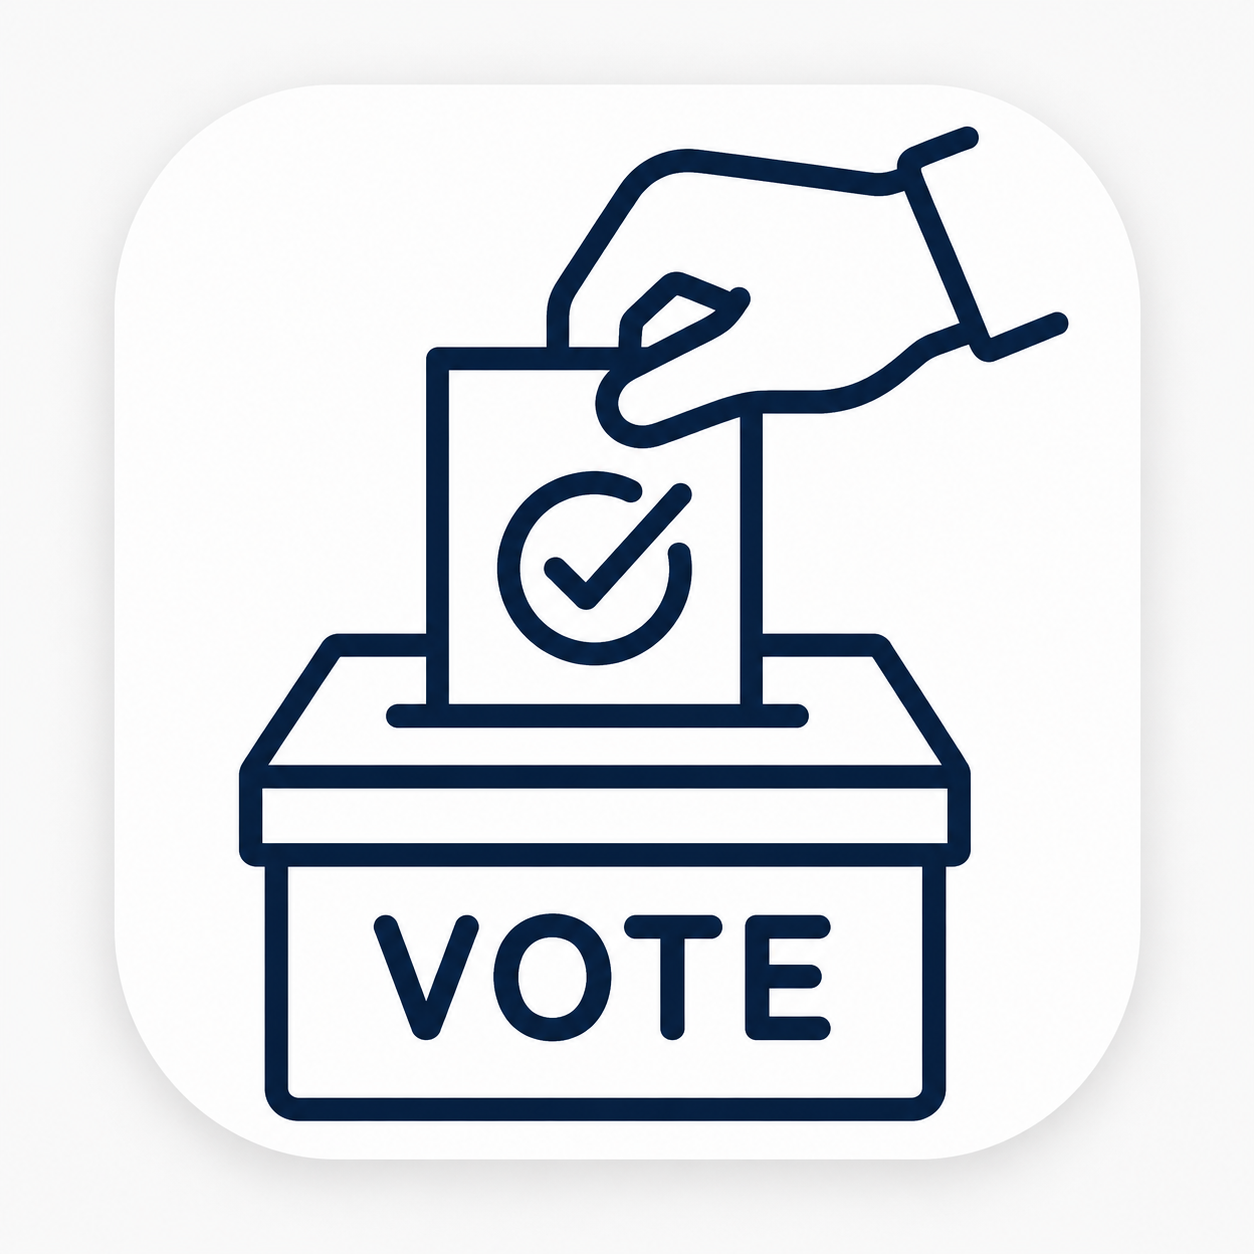
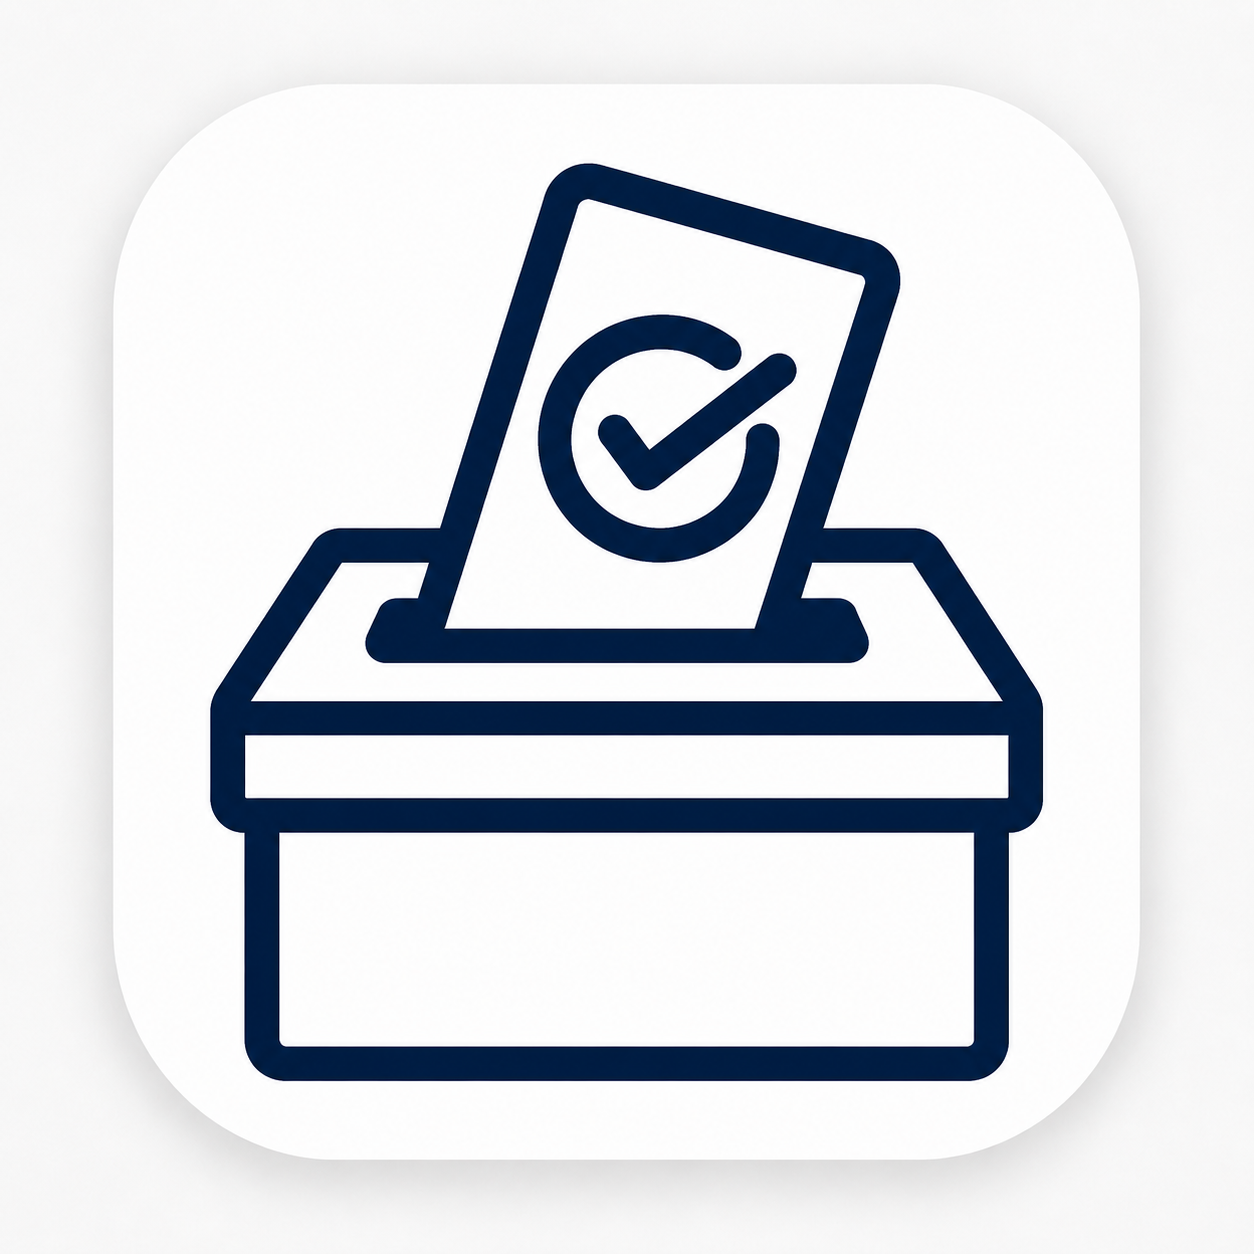
5.19

Changed region(s): [[0.1555, 0.0933, 0.8708, 0.9019]]

diff --git a/components/equipment/equipment-pages.tsx b/components/equipment/equipment-pages.tsx
@@ -13,6 +13,7 @@ import { getEngScheduleBadges, loadEngScheduleHighlights, type EngScheduleBadge,
 import {
   borrowEngSets,
   borrowEquipmentItems,
+  borrowLiveEquipmentStatusItem,
   canReturnLoanItem,
   fetchEquipmentItems,
   fetchLiveEquipmentItemsForManagement,
@@ -3049,6 +3050,7 @@ export function LiveEquipmentStatusPage() {
   const [editMode, setEditMode] = useState(false);
   const [loading, setLoading] = useState(true);
   const [saving, setSaving] = useState(false);
+  const [statusToggleItemId, setStatusToggleItemId] = useState<string | null>(null);
   const [message, setMessage] = useState<Message | null>(null);
 
   const load = useCallback(async () => {
@@ -3094,7 +3096,7 @@ export function LiveEquipmentStatusPage() {
   const regionalTvuItems = useMemo(() => items.filter(isRegionalTransmissionTvuItem), [items]);
   const tvuItems = useMemo(() => items.filter((item) => isTvuItem(item) && !isRegionalTransmissionTvuItem(item)), [items]);
   const statusBoardItems = useMemo(() => [...tvuItems, ...regionalTvuItems], [regionalTvuItems, tvuItems]);
-  const canManageLiveStatus = Boolean(session?.approved && hasDeskAccess(session.role));
+  const canManageLiveStatus = Boolean(session?.approved && hasDeskAccess(session.actualRole));
   const hasDirtyDrafts = useMemo(() => (
     editMode && statusBoardItems.some((item) => !liveStatusDraftsEqual(drafts[item.id], editBaselineDrafts[item.id]))
   ), [drafts, editBaselineDrafts, editMode, statusBoardItems]);
@@ -3160,6 +3162,48 @@ export function LiveEquipmentStatusPage() {
     setEditMode(false);
     setMessage({ tone: "note", text: "수정을 취소했습니다." });
   };
+  const toggleLiveBorrowStatus = async (
+    item: EquipmentItem,
+    loanItem: EquipmentLoanItem | undefined,
+    electionOverlay: ElectionTvuOverlay | null,
+    liveDetails: LiveLoanDetails,
+  ) => {
+    if (!canManageLiveStatus) {
+      setMessage({ tone: "warn", text: "라이브장비 현황판 저장 권한이 없습니다." });
+      return;
+    }
+    if (editMode) {
+      setMessage({ tone: "note", text: "수정 모드에서는 상태를 변경할 수 없습니다." });
+      return;
+    }
+    if (electionOverlay) {
+      setMessage({ tone: "note", text: "선거 자동연동 상태는 현황판에서 직접 변경할 수 없습니다." });
+      return;
+    }
+    if (!loanItem && item.isUnderRepair) {
+      setMessage({ tone: "note", text: "수리중인 장비는 대여중으로 변경할 수 없습니다." });
+      return;
+    }
+    if (statusToggleItemId || saving || loading) return;
+
+    setStatusToggleItemId(item.id);
+    try {
+      const nextMessage = loanItem
+        ? `${getEquipmentDisplayName(item)} 상태를 대여가능으로 변경했습니다.`
+        : `${getEquipmentDisplayName(item)} 상태를 대여중으로 변경했습니다.`;
+      if (loanItem) {
+        await returnEquipmentLoanItems([loanItem.id]);
+      } else {
+        await borrowLiveEquipmentStatusItem(item.id, liveDetails);
+      }
+      await load();
+      setMessage({ tone: "ok", text: nextMessage });
+    } catch (error) {
+      setMessage({ tone: "warn", text: error instanceof Error ? error.message : "라이브장비 상태 변경에 실패했습니다." });
+    } finally {
+      setStatusToggleItemId(null);
+    }
+  };
 
   const renderLiveStatusTable = (tableItems: EquipmentItem[], title: string, isRegionalTable = false) => (
     <section className={styles.liveStatusTableSection}>
@@ -3190,6 +3234,16 @@ export function LiveEquipmentStatusPage() {
                 const draft = editMode ? drafts[item.id] ?? baseDisplayDraft : displayDraft;
                 const dirty = editMode && !liveStatusDraftsEqual(draft, editBaselineDrafts[item.id]);
                 const noteValue = draft.note || "-";
+                const statusToggleDisabled = (
+                  !canManageLiveStatus ||
+                  editMode ||
+                  saving ||
+                  loading ||
+                  Boolean(statusToggleItemId) ||
+                  Boolean(electionOverlay) ||
+                  (!loanItem && item.isUnderRepair)
+                );
+                const statusToggleLabel = loanItem ? "대여가능으로 변경" : "대여중으로 변경";
                 return (
                   <tr key={item.id} className={dirty ? styles.liveStatusDirtyRow : ""}>
                     <td>
@@ -3308,12 +3362,21 @@ export function LiveEquipmentStatusPage() {
                       )}
                     </td>
                     <td>
-                      <StatusPill
-                        borrowed={Boolean(loanItem || electionOverlay)}
-                        repairing={item.isUnderRepair}
-                        availableLabel={isRegionalTable ? "사용 가능" : "대여가능"}
-                        borrowedLabel={electionOverlay ? "선거중계" : "대여중"}
-                      />
+                      <button
+                        type="button"
+                        className={styles.liveStatusToggle}
+                        disabled={statusToggleDisabled}
+                        aria-label={`${getEquipmentDisplayName(item)} ${statusToggleLabel}`}
+                        title={`${getEquipmentDisplayName(item)} ${statusToggleLabel}`}
+                        onDoubleClick={() => void toggleLiveBorrowStatus(item, loanItem, electionOverlay, baseDisplayDraft)}
+                      >
+                        <StatusPill
+                          borrowed={Boolean(loanItem || electionOverlay)}
+                          repairing={item.isUnderRepair}
+                          availableLabel={isRegionalTable ? "사용 가능" : "대여가능"}
+                          borrowedLabel={electionOverlay ? "선거중계" : "대여중"}
+                        />
+                      </button>
                     </td>
                   </tr>
                 );

diff --git a/lib/equipment/storage.ts b/lib/equipment/storage.ts
@@ -393,7 +393,7 @@ function assertCanManageRepair() {
 
 function assertCanManageLiveStatus() {
   const session = getSession();
-  if (!session?.approved || !hasDeskAccess(session.role)) {
+  if (!session?.approved || !hasDeskAccess(session.actualRole)) {
     throw new Error("라이브장비 현황판 저장 권한이 없습니다.");
   }
   return session;
@@ -451,6 +451,35 @@ export async function borrowEquipmentItems(
 
   if (error) {
     throw new Error(getEquipmentStorageErrorMessage(error, "equipment loan"));
+  }
+}
+
+export async function borrowLiveEquipmentStatusItem(itemId: string, liveDetails: LiveLoanDetails = {
+  trs: "",
+  cameraReporter: "",
+  audioMan: "",
+  location: "",
+  note: "",
+}) {
+  assertCanManageLiveStatus();
+  const normalizedId = itemId.trim();
+  if (!normalizedId) {
+    throw new Error("대여 처리할 라이브장비를 선택해 주세요.");
+  }
+
+  const supabase = await getPortalSupabaseClient();
+  const { error } = await supabase.rpc("borrow_equipment_items", {
+    p_equipment_item_ids: [normalizedId],
+    p_loan_type: "live",
+    p_live_trs: liveDetails.trs?.trim() || null,
+    p_live_camera_reporter: liveDetails.cameraReporter?.trim() || null,
+    p_live_audio_man: liveDetails.audioMan?.trim() || null,
+    p_live_location: liveDetails.location?.trim() || null,
+    p_live_note: liveDetails.note?.trim() || null,
+  });
+
+  if (error) {
+    throw new Error(getEquipmentStorageErrorMessage(error, "live equipment loan"));
   }
 }
 

diff --git a/components/election/election-page.tsx b/components/election/election-page.tsx
@@ -567,7 +567,6 @@ export function ElectionPage() {
         <article className="panel">
           <div className={`panel-pad ${styles.header}`}>
             <div className={styles.titleBlock}>
-              <span className="chip">선거</span>
               <h1 className="page-title">{formatElectionBoardTitle(publishedEvent?.title)}</h1>
             </div>
             <div className={styles.actions}>
@@ -598,7 +597,6 @@ export function ElectionPage() {
       <article className="panel">
         <div className={`panel-pad ${styles.header}`}>
           <div className={styles.titleBlock}>
-            <span className="chip">선거</span>
             <h1 className="page-title">{formatElectionBoardTitle(draft?.title ?? savedDisplayTitle)}</h1>
             <span className={getStatusClassName(currentStatus)}>{statusLabels[currentStatus]}</span>
           </div>

diff --git a/components/equipment/Equipment.module.css b/components/equipment/Equipment.module.css
@@ -925,6 +925,26 @@
   overflow-wrap: anywhere;
 }
 
+.liveStatusToggle {
+  display: inline-flex;
+  min-width: 0;
+  padding: 0;
+  border: 0;
+  background: transparent;
+  color: inherit;
+  font: inherit;
+  cursor: pointer;
+}
+
+.liveStatusToggle:disabled {
+  cursor: default;
+}
+
+.liveStatusToggle:not(:disabled):focus-visible {
+  outline: 3px solid rgba(37, 99, 235, 0.22);
+  outline-offset: 3px;
+}
+
 .liveStatusTable .itemNameStack {
   min-width: 96px;
   justify-items: start;
